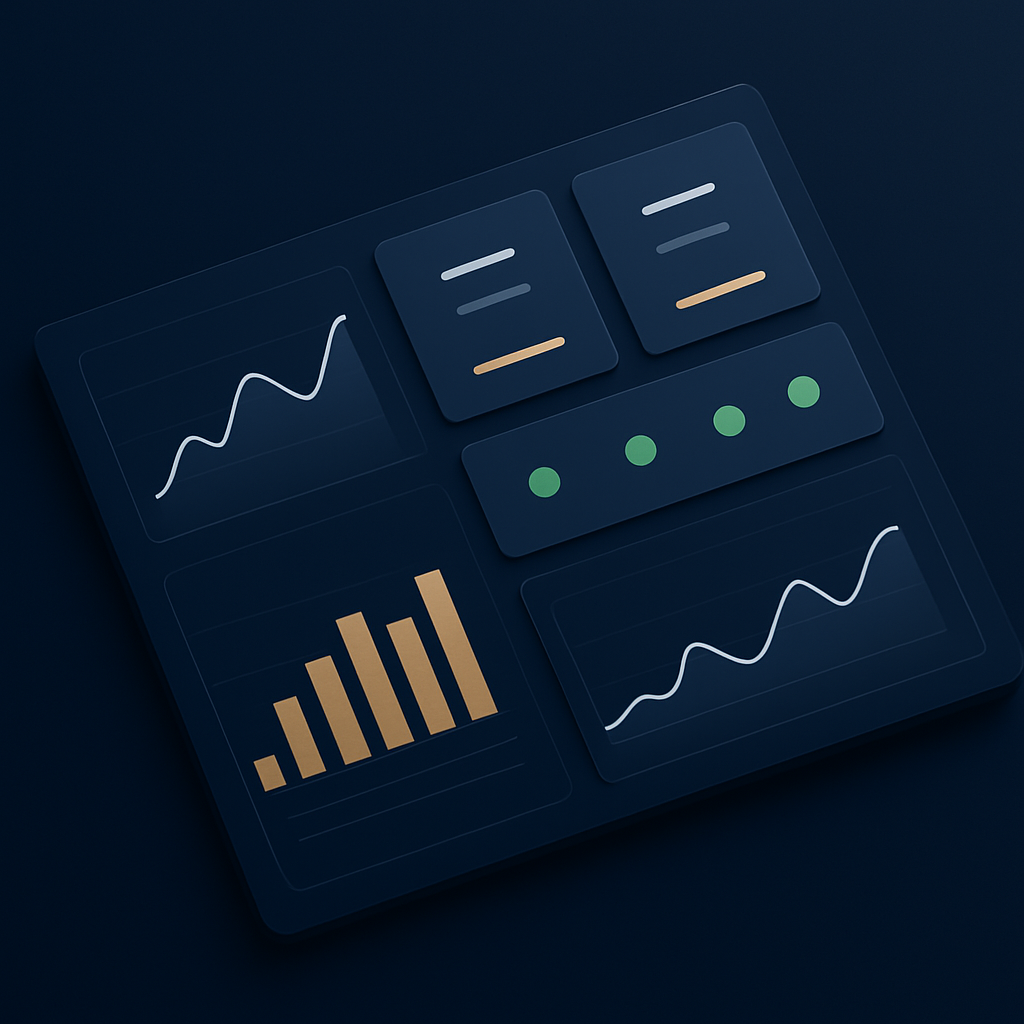
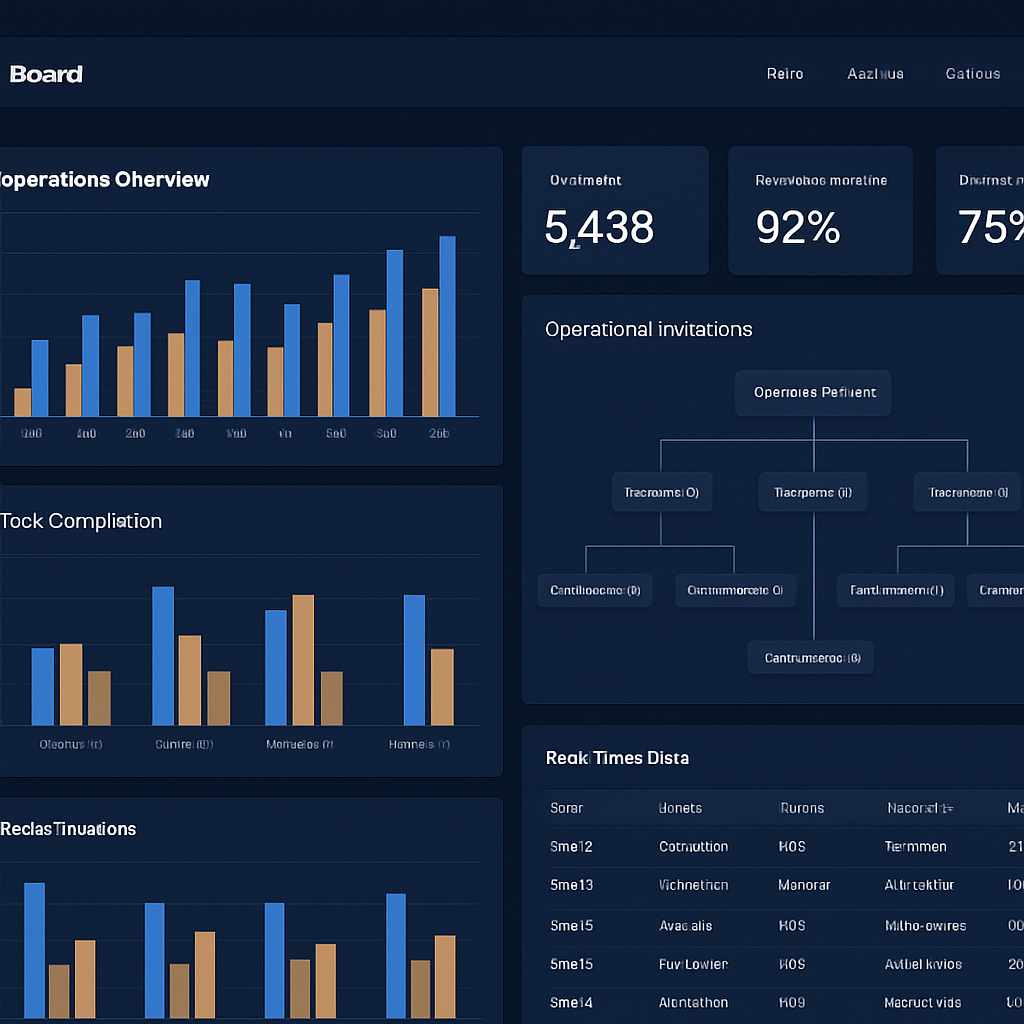
style: update text colors to use blue and gray variants

diff --git a/styles/produto.css b/styles/produto.css
@@ -526,7 +526,7 @@
   font-weight: 800;
   line-height: 1.12;
   letter-spacing: -0.028em;
-  color: var(--dark-text);
+  color: var(--blue);
   margin-bottom: 28px;
 }
 
@@ -557,7 +557,7 @@
   gap: 10px;
   font-size: 14px;
   font-weight: 600;
-  color: var(--dark-text);
+  color: var(--gray-700);
 }
 
 .produto-oque__bullet-dot {
@@ -897,7 +897,7 @@
   font-weight: 800;
   line-height: 1.1;
   letter-spacing: -0.028em;
-  color: var(--dark-text);
+  color: var(--blue);
   margin-bottom: 20px;
 }
 
@@ -988,7 +988,7 @@
 .produto-how__step-title {
   font-size: 18px;
   font-weight: 700;
-  color: var(--dark-text);
+  color: var(--blue);
   margin-bottom: 8px;
   letter-spacing: -0.015em;
   line-height: 1.3;
@@ -1034,7 +1034,7 @@
   font-weight: 800;
   line-height: 1.12;
   letter-spacing: -0.028em;
-  color: var(--dark-text);
+  color: var(--blue);
   margin-bottom: 20px;
 }
 
